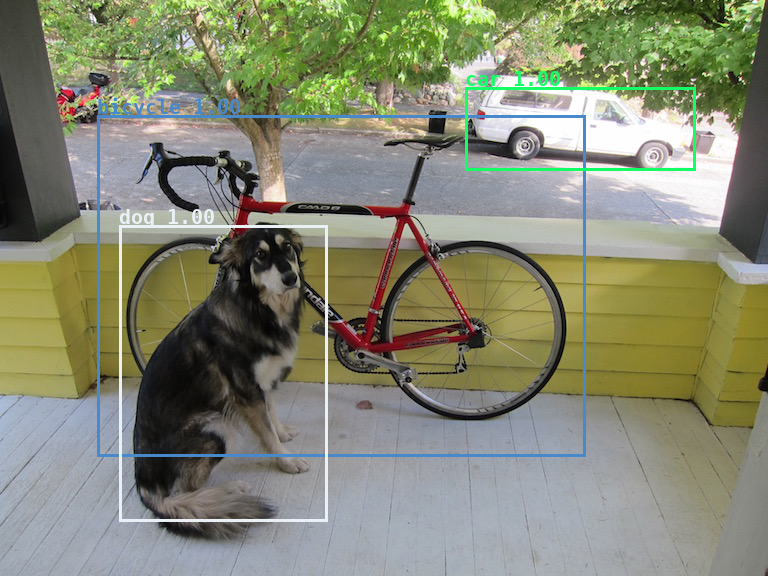
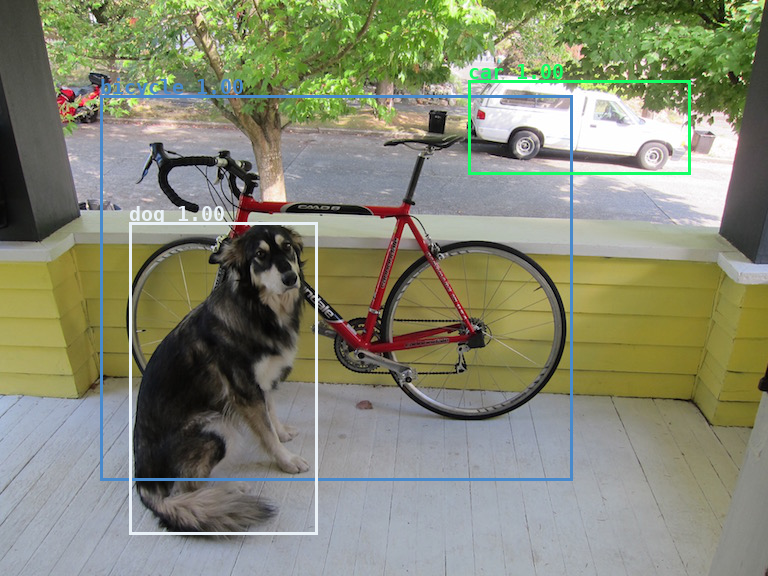
add batches in tensorrt

Changed region(s): [[0.125, 0.0938, 0.9062, 0.9375]]

diff --git a/onnx_to_tensorrt.py b/onnx_to_tensorrt.py
@@ -54,18 +54,21 @@ def draw_bboxes(image_raw, bboxes, confidences, categories, all_categories, bbox
     return image_raw
 
 
-def get_engine(onnx_file_path, engine_file_path="", int8mode=False, calib_file='yolo_calibration.cache'):
+def get_engine(onnx_file_path, width=608, height=608, batch_size=1, engine_file_path="", int8mode=False,
+               calib_file='yolo_calibration.cache'):
     """Attempts to load a serialized engine if available, otherwise builds a new TensorRT engine and saves it."""
     def build_engine():
         """Takes an ONNX file and creates a TensorRT engine to run inference with"""
-        with trt.Builder(TRT_LOGGER) as builder, builder.create_network() as network, trt.OnnxParser(network, TRT_LOGGER) as parser:
+        with trt.Builder(TRT_LOGGER) as builder, builder.create_network() as network, \
+                trt.OnnxParser(network, TRT_LOGGER) as parser:
             builder.max_workspace_size = 1 << 28  # 256MiB
-            builder.max_batch_size = 1
+            builder.max_batch_size = batch_size
             if int8mode:
                 # calibrator definition
                 calibration_dataset_loc = "calibration_dataset/"
                 calibration_cache = calib_file
-                calib = calibrator.PythonEntropyCalibrator(calibration_dataset_loc, cache_file=calibration_cache)
+                calib = calibrator.PythonEntropyCalibrator(calibration_dataset_loc, cache_file=calibration_cache,
+                                                           width=width, height=height, batch_size=batch_size)
                 builder.int8_mode = True
                 builder.int8_calibrator = calib
             else:
@@ -95,7 +98,7 @@ def get_engine(onnx_file_path, engine_file_path="", int8mode=False, calib_file='
         return build_engine()
 
 
-def main(width=608, height=608, dataset='coco_label.txt', int8mode=False, calib_file='yolo_calibration.cache',
+def main(width=608, height=608, batch_size=1, dataset='coco_label.txt', int8mode=False, calib_file='yolo_calibration.cache',
          onnx_file='yolov3.onnx', engine_file='yolov3.trt', image_file='dog.jpg', result_file='dog_bboxes.png'):
 
     """Load labels of the correspond dataset."""
@@ -115,16 +118,17 @@ def main(width=608, height=608, dataset='coco_label.txt', int8mode=False, calib_
     # Create a pre-processor object by specifying the required input resolution for YOLOv3
     preprocessor = PreprocessYOLO(input_resolution_yolov3_HW)
     # Load an image from the specified input path, and return it together with  a pre-processed version
-    image_raw, image = preprocessor.process(input_image_path)
+    image_raw, image = preprocessor.process(input_image_path, batch_size)
     # Store the shape of the original input image in WH format, we will need it for later
     shape_orig_WH = image_raw.size
 
     # Output shapes expected by the post-processor
-    output_shapes = [(1, (classes + 5) * 3, height // 32, width // 32),
-                     (1, (classes + 5) * 3, height // 16, width // 16),
-                     (1, (classes + 5) * 3, height // 8,  width // 8)]
+    output_shapes = [(batch_size, (classes + 5) * 3, height // 32, width // 32),
+                     (batch_size, (classes + 5) * 3, height // 16, width // 16),
+                     (batch_size, (classes + 5) * 3, height // 8,  width // 8)]
     # Do inference with TensorRT
-    with get_engine(onnx_file_path, engine_file_path, int8mode, calib_file) as engine, engine.create_execution_context() as context:
+    with get_engine(onnx_file_path, width, height, batch_size, engine_file_path, int8mode, calib_file) as engine, \
+            engine.create_execution_context() as context:
         start = time.time()
         inputs, outputs, bindings, stream = common.allocate_buffers(engine)
         # Do inference
@@ -147,7 +151,10 @@ def main(width=608, height=608, dataset='coco_label.txt', int8mode=False, calib_
     postprocessor = PostprocessYOLO(**postprocessor_args)
 
     # Run the post-processing algorithms on the TensorRT outputs and get the bounding box details of detected objects
-    boxes, classes, scores = postprocessor.process(trt_outputs, (shape_orig_WH), classes)
+    trt_outputs_1 = [np.expand_dims(trt_outputs[0][0], axis=0),
+                     np.expand_dims(trt_outputs[1][0], axis=0),
+                     np.expand_dims(trt_outputs[2][0], axis=0)]
+    boxes, classes, scores = postprocessor.process(trt_outputs_1, (shape_orig_WH), classes)
     # Draw the bounding boxes onto the original input image and save it as a PNG file
     obj_detected_img = draw_bboxes(image_raw, boxes, scores, classes, all_categories)
     output_image_path = result_file
@@ -159,6 +166,7 @@ if __name__ == '__main__':
     parser = argparse.ArgumentParser(description='Sample of YOLOv3 TensorRT.')
     parser.add_argument('--width', type=int, default=608, help='image width')
     parser.add_argument('--height', type=int, default=608, help='image height')
+    parser.add_argument('--batch_size', type=int, default=1, help='image height')
     parser.add_argument('--dataset', type=str, default='coco_labels.txt', help='dataset classes names label')
     parser.add_argument('--int8', action='store_true', help='set int8 mode')
     parser.add_argument('--calib_file', type=str, default='yolo_calibration.cache', help='int8 calibration file')
@@ -168,5 +176,5 @@ if __name__ == '__main__':
     parser.add_argument('--result_file', type=str, default='dog_bboxes.png', help='result file')
     args = parser.parse_args()
     print(args)
-    main(args.width, args.height, args.dataset, args.int8, args.calib_file, args.onnx_file, args.engine_file,
+    main(args.width, args.height, args.batch_size, args.dataset, args.int8, args.calib_file, args.onnx_file, args.engine_file,
          args.image_file, args.result_file)

diff --git a/calibrator.py b/calibrator.py
@@ -10,8 +10,9 @@ from data_processing import PreprocessYOLO
 # For reading size information ftch.shaperom batches
 import struct
 
+
 class PythonEntropyCalibrator(trt.IInt8EntropyCalibrator2):
-    def __init__(self, batch_data_dir, cache_file):
+    def __init__(self, batch_data_dir, cache_file, width=608, height=608, batch_size=1):
         # Whenever you specify a custom constructor for a TensorRT class,
         # you MUST call the constructor of the parent explicitly.
         trt.IInt8EntropyCalibrator2.__init__(self)
@@ -21,8 +22,10 @@ class PythonEntropyCalibrator(trt.IInt8EntropyCalibrator2):
         self.batch_files = [os.path.join(batch_data_dir, f) for f in os.listdir(batch_data_dir)]
 
         # Find out the shape of a batch and then allocate a device buffer of that size.
-        self.batch_size = 1
-        self.batch_round = 100
+        self.width = width
+        self.height = height
+        self.batch_size = batch_size
+        self.batch_round = len(self.batch_files) // self.batch_size
         self.shape = self.read_batch_file(self.batch_files[0:self.batch_size]).shape
         print(self.shape)
         # Each element of the calibration data is a float32.
@@ -42,13 +45,13 @@ class PythonEntropyCalibrator(trt.IInt8EntropyCalibrator2):
     # aggregate data from multiple files, or use only data from portions of a file.
     def read_batch_file(self, filename):
         batch = []
-        input_resolution_yolov3_HW = (608, 608)
+        input_resolution_yolov3_HW = (self.width, self.height)
         for img_path in filename:
             preprocessor = PreprocessYOLO(input_resolution_yolov3_HW)
             image = preprocessor.process(img_path)
             batch.append(image[1])
         batch = np.array(batch)
-        batch.shape = self.batch_size, 3, 608, 608
+        batch.shape = self.batch_size, 3, self.height, self.width
             
         return batch
 

diff --git a/data_processing.py b/data_processing.py
@@ -76,7 +76,7 @@ class PreprocessYOLO(object):
         """
         self.yolo_input_resolution = yolo_input_resolution
 
-    def process(self, input_image_path):
+    def process(self, input_image_path, batch_size=1):
         """Load an image from the specified input path,
         and return it together with a pre-processed version required for feeding it into a
         YOLOv3 network.
@@ -84,8 +84,12 @@ class PreprocessYOLO(object):
         Keyword arguments:
         input_image_path -- string path of the image to be loaded
         """
-        image_raw, image_resized = self._load_and_resize(input_image_path)
-        image_preprocessed = self._shuffle_and_normalize(image_resized)
+        image_batch = []
+        for i in range(batch_size):
+            image_raw, image_resized = self._load_and_resize(input_image_path)
+            image_batch.append(image_resized)
+        image_batch = np.array(image_batch)
+        image_preprocessed = self._shuffle_and_normalize(image_batch)
         return image_raw, image_preprocessed
 
     def _load_and_resize(self, input_image_path):
@@ -118,9 +122,9 @@ class PreprocessYOLO(object):
         """
         image /= 255.0
         # HWC to CHW format:
-        image = np.transpose(image, [2, 0, 1])
+        image = np.transpose(image, [0, 3, 1, 2])
         # CHW to NCHW format
-        image = np.expand_dims(image, axis=0)
+        # image = np.expand_dims(image, axis=0)
         # Convert the image to row-major order, also known as "C order":
         image = np.array(image, dtype=np.float32, order='C')
         return image
